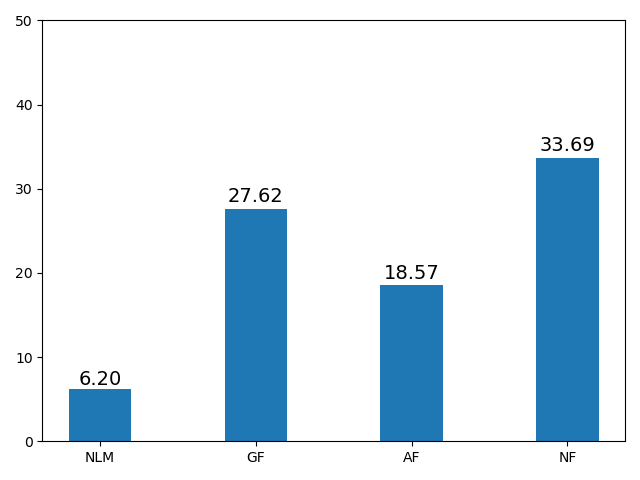
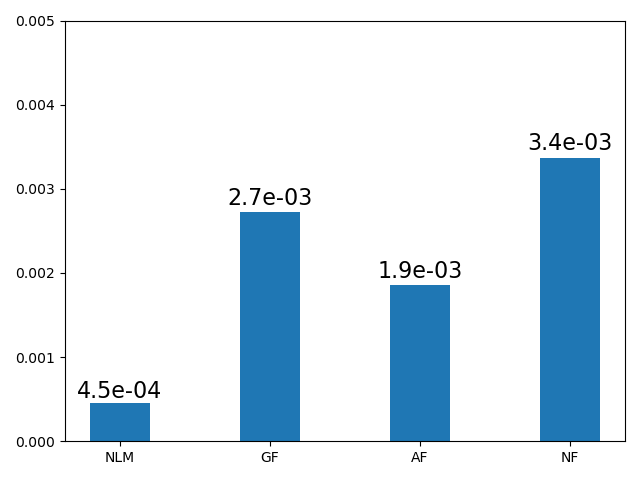
update MSE

diff --git a/nlm_para_test.py b/nlm_para_test.py
@@ -24,41 +24,41 @@ noise = sigma_noise * np.random.randn(img.shape[0], img.shape[1])
 noise_img = img + noise
 
 # test for parameter h
-# print("======h:======")
-# hs=[5,10,15]
-# nlhs=[]
-# for h in hs:
-#     img_t=nlm.nlm(noise_img,sigma_noise*h)
-#     nlhs.append(img_t)
-#     cv2.imwrite(f'results/h_{h//5-1}.jpg', np.uint8(img_t * 255))
-#     print(np.sum(np.square(img-img_t)))
-#
-# pos=[x for x in range(131,131+len(hs))]
-# plt.figure()
-# for i in range(len(hs)):
-#     plt.subplot(pos[i])
-#     plt.imshow(nlhs[i], 'gray')
-#     plt.axis('off')
-# plt.show()
+print("======h:======")
+hs=[5,10,15]
+nlhs=[]
+for h in hs:
+    img_t=nlm.nlm(noise_img,sigma_noise*h)
+    nlhs.append(img_t)
+    # cv2.imwrite(f'results/h_{h//5-1}.jpg', np.uint8(img_t * 255))
+    print(np.sum(np.square(img-img_t))/IMG_SIZE)
+
+pos=[x for x in range(131,131+len(hs))]
+plt.figure()
+for i in range(len(hs)):
+    plt.subplot(pos[i])
+    plt.imshow(nlhs[i], 'gray')
+    plt.axis('off')
+plt.show()
 
 
 # test for parameter R, the radius of the search window
-# print("======R:======")
-# Rs=[1,5,10]
-# nlRs=[]
-# for R in Rs:
-#     img_t=nlm.nlm(noise_img,sigma_noise*10,R)
-#     nlRs.append(img_t)
-#     print(np.sum(np.square(img-img_t)))
-#     cv2.imwrite(f'results/R_{i}.jpg', np.uint8(img_t * 255))
-#
-# pos=[x for x in range(131,131+len(Rs))]
-# plt.figure()
-# for i in range(len(Rs)):
-#     plt.subplot(pos[i])
-#     plt.imshow(nlRs[i], 'gray')
-#     plt.axis('off')
-# plt.show()
+print("======R:======")
+Rs=[1,5,10]
+nlRs=[]
+for R in Rs:
+    img_t=nlm.nlm(noise_img,sigma_noise*10,R)
+    nlRs.append(img_t)
+    print(np.sum(np.square(img-img_t))/IMG_SIZE)
+    # cv2.imwrite(f'results/R_{i}.jpg', np.uint8(img_t * 255))
+
+pos=[x for x in range(131,131+len(Rs))]
+plt.figure()
+for i in range(len(Rs)):
+    plt.subplot(pos[i])
+    plt.imshow(nlRs[i], 'gray')
+    plt.axis('off')
+plt.show()
 
 # test for parameter r, the radius of the similarity window
 print("======r:======")
@@ -67,8 +67,8 @@ nlrs = []
 for r in rs:
     img_t=nlm.nlm(noise_img, sigma_noise * 10, 10, r)
     nlrs.append(img_t)
-    print(np.sum(np.square(img - img_t)))
-    cv2.imwrite(f'results/r1_{r//3}.jpg', np.uint8(img_t * 255))
+    print(np.sum(np.square(img - img_t))/IMG_SIZE)
+    # cv2.imwrite(f'results/r1_{r//3}.jpg', np.uint8(img_t * 255))
 
 pos = [x for x in range(131, 131 + len(rs))]
 plt.figure()
@@ -80,20 +80,20 @@ plt.show()
 
 # compare the results
 # whether add a Gaussian kernel to the Euclidean distance or not
-# print("======G:======")
-# nlgs = []
-# nlgs.append(noise_img)
-# nlgs.append(nlm.nlm(noise_img, sigma_noise * 10, 10, 3, False))
-# nlgs.append(nlm.nlm(noise_img, sigma_noise * 10, 10, 3, True))
-#
-# for i in range(3):
-#     print(np.sum(np.square(img-nlgs[i] )))
-#     cv2.imwrite(f'results/g_{i}.jpg', np.uint8(nlgs[i] * 255))
-#
-# pos = [x for x in range(131, 131 + len(nlgs))]
-# plt.figure()
-# for i in range(len(nlgs)):
-#     plt.subplot(pos[i])
-#     plt.imshow(nlgs[i], 'gray')
-#     plt.axis('off')
-# plt.show()
+print("======G:======")
+nlgs = []
+nlgs.append(noise_img)
+nlgs.append(nlm.nlm(noise_img, sigma_noise * 10, 10, 3, False))
+nlgs.append(nlm.nlm(noise_img, sigma_noise * 10, 10, 3, True))
+
+for i in range(3):
+    print(np.sum(np.square(img-nlgs[i] ))/IMG_SIZE)
+    # cv2.imwrite(f'results/g_{i}.jpg', np.uint8(nlgs[i] * 255))
+
+pos = [x for x in range(131, 131 + len(nlgs))]
+plt.figure()
+for i in range(len(nlgs)):
+    plt.subplot(pos[i])
+    plt.imshow(nlgs[i], 'gray')
+    plt.axis('off')
+plt.show()

diff --git a/comparison.py b/comparison.py
@@ -23,7 +23,7 @@ img = img / 255.0
 
 # add a gaussian white noise
 # sigma_noise is the standard deviation
-sigma_noise = 0.03
+sigma_noise = 0.025
 noise = sigma_noise * np.random.randn(img.shape[0], img.shape[1])
 noise_img = img + noise
 # noise_img=random_noise(img, mode='gaussian', seed=None, clip=True, var=sigma_noise**2)
@@ -71,16 +71,17 @@ def autolabel(rects, ax, xpos='center'):
     for rect in rects:
         height = rect.get_height()
         ax.text(rect.get_x() + rect.get_width() * offset[xpos], 1.01 * height,
-                '{:.2f}'.format(height), ha=ha[xpos], va='bottom', fontdict={"fontsize": 16})
+                '{:.1e}'.format(height), ha=ha[xpos], va='bottom', fontdict={"fontsize": 16})
 
 
 fig, ax = plt.subplots()
 x = ["NLM", "GF", "AF", "NF"]
-y = list(map(lambda t: np.sum(np.square(img - t)), [nl, gauss, anisoid, neighbor]))
+y = list(map(lambda t: np.sum(np.square(img - t))/IMG_SIZE, [nl, gauss, anisoid, neighbor]))
 for i in range(4):
     print(f"{x[i]}: {y[i]}")
 rects = ax.bar(range(4), y, width=0.4)
 autolabel(rects, ax, "center")
 plt.xticks(range(4), x)
-plt.yticks(range(0, 60, 10))
+# plt.yticks(range(0, 60, 10))
+plt.yticks(np.arange(0, 60*1e-4, 10*1e-4))
 plt.show()
